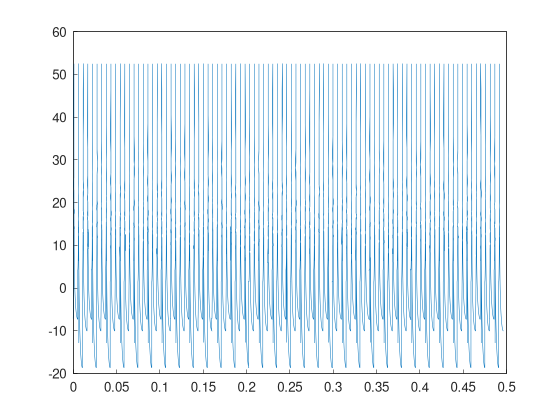
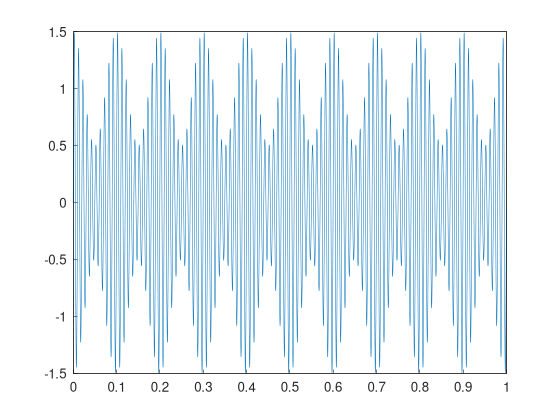
fix fft

diff --git a/Modules/FFT/src/FFT_cufft.cpp b/Modules/FFT/src/FFT_cufft.cpp
@@ -2,6 +2,7 @@
 
 #include <module.hpp>
 #include <utility>
+#include <iostream>
 
 #include <cufft.h>
 #include <cuda_runtime.h>
@@ -42,6 +43,13 @@ IModule* createModule() {
 FFT::FFT() : IModule({"FFT", "FFT-module.so", "FFT.json"}) {}
 
 bool FFT::init() {
+    m_buffer = GpuFloatSignal(m_overlapSize * 2);
+
+    const auto planStatus = cufftPlan1d(&m_prefixPlan, m_buffer.availableSize(), CUFFT_R2C, 1);
+    if (planStatus != CUFFT_SUCCESS) {
+        ERROR << "FFT::initPlan: cufftPlanMany failed: " << cufftResultToString(planStatus) << std::endl;
+        return false;
+    }
     return true;
 }
 
@@ -74,14 +82,6 @@ bool FFT::initPlan(){
         return false;
     }
 
-    /*
-    if ((inputSize % m_fftSize) != 0) {
-        ERROR << "FFT::initPlan: input size (" << inputSize
-              << ") is not multiple of fft size (" << m_fftSize << ")." << std::endl;
-        return false;
-    }
-    */
-
     m_plan = 0;
     int n[1] = {static_cast<int>(m_fftSize)};
     const int istride = 1;
@@ -111,6 +111,17 @@ bool FFT::initPlan(){
 }
 
 bool FFT::run() {
+    size_t prefixOffset = 0;
+    if(not m_isFirtFft){
+        prefixOffset = (m_fftSize / 2) + 1;
+        const auto prefixStatus = cufftExecR2C(m_prefixPlan, m_buffer.getDeviceData(), m_outData->getDeviceData());
+        if (prefixStatus != CUFFT_SUCCESS) {
+            ERROR << "FFT::run: prefix cufftExecR2C failed: " << cufftResultToString(prefixStatus) << std::endl;
+            return false;
+        }
+        INFO << "FFT::run: prefix cufftExecR2C completed." << std::endl;
+    }
+
     if(not prepareData()) {
         return false;
     }
@@ -119,11 +130,20 @@ bool FFT::run() {
         return false;
     }
 
-    const auto execStatus = cufftExecR2C(m_plan, m_inData->getDeviceData(), m_outData->getDeviceData());
+    const auto prefixErr = cudaMemcpy(m_buffer.getDeviceData(),
+        m_inData->getDeviceData() + (m_inData->size() - m_overlapSize),
+        m_overlapSize * sizeof(float), cudaMemcpyDeviceToDevice
+    );
+
+    if(prefixErr != cudaSuccess){
+        ERROR << "FFT::run: prefix cudaMemcpy failed: " << cudaGetErrorString(prefixErr) << std::endl;
+        return false;
+    }
+
+    const auto execStatus = cufftExecR2C(m_plan, m_inData->getDeviceData(), m_outData->getDeviceData() + prefixOffset);
     if (execStatus != CUFFT_SUCCESS) {
         ERROR << "FFT::run: cufftExecR2C failed: " << cufftResultToString(execStatus) << std::endl;
         cufftDestroy(m_plan);
-        m_outData = std::make_shared<GpuComplexFloatSignal>();
         return false;
     }
 
@@ -134,12 +154,18 @@ bool FFT::run() {
         return false;
     }
 
+    m_isFirtFft = false;
+
     return true;
 }
 
 void FFT::setParam(const std::string& paramName, const std::any& value) {
     if(paramName == "fft size"){
         m_fftSize = std::any_cast<int32_t>(value);
+    }
+
+    if(paramName == "overlap size"){
+        m_overlapSize = std::any_cast<int32_t>(value);
     }
 }
 
@@ -155,11 +181,6 @@ bool FFT::setData(std::shared_ptr<IData> data) {
         return false;
     }
 
-    if (m_fftSize == 0) {
-        ERROR << "FFT::setData: fft size is zero." << std::endl;
-        return false;
-    }
-
     const auto inputSize = gpuData->size();
     if (inputSize == 0) {
         ERROR << "FFT::setData: input signal has zero size." << std::endl;
@@ -172,21 +193,22 @@ bool FFT::setData(std::shared_ptr<IData> data) {
         return false;
     }
 
-    /*
-    if ((inputSize % m_fftSize) != 0) {
-        ERROR << "FFT::setData: input size (" << inputSize
-              << ") is not multiple of fft size (" << m_fftSize << ")." << std::endl;
-        return false;
-    }
-    */
 
     const auto batch = inputSize / m_fftSize;
     const auto outputPerBatch = (m_fftSize / 2) + 1;
-    const auto outputSize = batch * outputPerBatch;
+    const auto outputSize = outputPerBatch * (batch + int32_t(!m_isFirtFft));
     auto outData = std::make_shared<GpuComplexFloatSignal>(outputSize);
     if (!outData || !outData->isValid()) {
         ERROR << "FFT::setData: failed to allocate output GPU buffer, size = " << outputSize << std::endl;
         return false;
+    }
+
+    if(not m_isFirtFft){
+        const auto err = cudaMemcpy(m_buffer.getDeviceData() + m_overlapSize, gpuData->getDeviceData(), m_overlapSize * sizeof(float), cudaMemcpyDeviceToDevice);
+        if (err != cudaSuccess) {
+            ERROR << "FFT::setData: prefix cudaMemcpy failed: " << cudaGetErrorString(err) << std::endl;
+            return false;
+        }
     }
 
     m_inData = gpuData;

diff --git a/main.cpp b/main.cpp
@@ -37,38 +37,45 @@ int32_t main(int argc, char const *argv[])
         return -1;
     }
 
-    const int32_t fftSize = 2048;
+    const int32_t fftSize = 4096;
     const int32_t sampleFreq = 192'000;
     init_logging();
     ModuleFactory factory(".");
 
     Conveyor conveyor("Main conveyor");
     std::shared_ptr<IModule> srcModule = std::shared_ptr<IModule>(factory.createModule("FileSrc"));
-    srcModule->setParam("file name", std::string("/home/luchinin/my_source/Course_poject/Server/signal_examples/fm_signal.bin"));
+    srcModule->setParam("file name", std::string("/home/luchinin/my_source/Course_poject/Server/signal_examples/am_signal.bin"));
     srcModule->setParam("data type", std::string("float"));
+    srcModule->setParam("max size", size_t(1'000'000));
 
-
-    std::shared_ptr<IModule> module1 = std::shared_ptr<IModule>(factory.createModule("FFT"));
-    module1->setParam("fft size", fftSize);
-
-    std::shared_ptr<IModule> module2 = std::shared_ptr<IModule>(factory.createModule("CS2AS"));
-
-    std::shared_ptr<IModule> viewModule = std::shared_ptr<IModule>(factory.createModule("SignalPlot"));
-    viewModule->setParam("sample rate", sampleFreq);
-    viewModule->setParam("show", true);
-    viewModule->setParam("save path", std::string("/home/luchinin/my_source/Course_poject/Server/signal_examples/sin_signal.png"));
-
+    std::shared_ptr<IModule> firModule = std::shared_ptr<IModule>(factory.createModule("FIR-filter"));
+    firModule->setParam("sample rate", sampleFreq);
+    firModule->setParam("filter order", 129);
+    firModule->setParam("block size", 2048);
+    firModule->setParam("low cutoff", float(51'000.f));
+    firModule->setParam("high cutoff", float(54'000.f));
     
+    std::shared_ptr<IModule> mobule1 = std::shared_ptr<IModule>(factory.createModule("SumReduce"));
+
+    std::shared_ptr<IModule> fftMobule = std::shared_ptr<IModule>(factory.createModule("FFT"));
+    fftMobule->setParam("fft size", fftSize);
+    fftMobule->setParam("overlap size", fftSize / 2);
+
+    std::shared_ptr<IModule> magnitureModyule = std::shared_ptr<IModule>(factory.createModule("CS2AS"));
+
     std::shared_ptr<IModule> spectrogramm = std::shared_ptr<IModule>(factory.createModule("SpectrogramPlot"));
     spectrogramm->setParam("show", true);
     spectrogramm->setParam("sample rate", sampleFreq);
     spectrogramm->setParam("fft size", fftSize);
-    spectrogramm->setParam("save path", std::string("/home/luchinin/my_source/Course_poject/Server/signal_examples/spectrogramm.png"));
+    spectrogramm->setParam("save path", std::string("/home/luchinin/my_source/Course_poject/Server/signal_examples/spectrogramm"));
+
 
     conveyor.addModule(srcModule);
-    conveyor.addModule(module1);
-    conveyor.addModule(module2);
+    //conveyor.addModule(firModule);
+    conveyor.addModule(fftMobule);
+    conveyor.addModule(magnitureModyule);
     conveyor.addModule(spectrogramm);
+
 
     if(not conveyor.init()){
         std::cerr << "Error init" << std::endl;

diff --git a/Core/src/Conveyor.cpp b/Core/src/Conveyor.cpp
@@ -59,15 +59,35 @@ bool Conveyor::run() {
     std::cout << "Conveyor '" << m_conveyorName << "' running payload." << std::endl;
     if(m_modules.empty())
         return false;
+
+    while(iterate());
     
+
+    return true; // В реальном приложении может возвращать результат обработки
+}
+
+bool Conveyor::iterate() {
     auto module = m_modules.front();
     if(not module->run()){
         std::cerr << "Fail to run: " << module->getMetaData().moduleName << std::endl;
         return false;
     }
     auto data = module->getData();
+
+    if(data->size() == 0){
+        std::cout << "! finished" << std::endl;
+        return false;
+    }
+    std::cout << "!" << module->getMetaData().moduleName << " Success run" << std::endl;
+
     for(size_t i = 1; i < m_modules.size(); ++i){
         module = m_modules[i];
+
+        if(not data->isValid()){
+            std::cerr << "Invalid data from: " << module->getMetaData().moduleName << std::endl;
+            return false;
+        }
+
         if (module) {
             if(not module->setData(data)){
                 std::cerr << "Fail to init data: " << module->getMetaData().moduleName << std::endl;
@@ -79,15 +99,9 @@ bool Conveyor::run() {
                 return false;
             }
 
+            std::cout << "!" << module->getMetaData().moduleName << " Success run" << std::endl;
             data = module->getData();
-            if(not data->isValid()){
-                std::cerr << "Invalid data from: " << module->getMetaData().moduleName << std::endl;
-                return false;
-            }
         }
     }
-
-    auto signal = CpuFloatSignal::fromGpu(data);
-    std::cout << signal->getData()[0] << std::endl;
-    return true; // В реальном приложении может возвращать результат обработки
+    return true;
 }

diff --git a/Modules/FileSrc/src/FileSrc.cpp b/Modules/FileSrc/src/FileSrc.cpp
@@ -9,10 +9,6 @@
 #include <GpuFloatSignal.hpp>
 #include <module.hpp>
 
-namespace {
-    constexpr size_t MAX_SIZE = 1'000'000'000;
-}
-
 IModule* createModule() {
     return new FileSrc();
 }
@@ -28,7 +24,7 @@ bool FileSrc::init() {
     }
 
     const auto fileSize = std::filesystem::file_size(m_fileName);
-    m_stepSize = (fileSize > MAX_SIZE) ? MAX_SIZE : fileSize;
+    m_stepSize = (fileSize > m_maxSize) ? m_maxSize : fileSize;
 
 
     m_file = std::ifstream(m_fileName, std::ios::in | std::ios::binary);
@@ -54,6 +50,11 @@ bool FileSrc::run() {
 void FileSrc::setParam(const std::string& paramName, const std::any& value) {
     if(paramName == "file name") {
         m_fileName = std::any_cast<std::string>(value);
+        return;
+    }
+
+    if(paramName == "max size") {
+        m_maxSize = std::any_cast<size_t>(value);
         return;
     }
 

diff --git a/Module/include/IModule.hpp b/Module/include/IModule.hpp
@@ -18,14 +18,14 @@ class IModule {
 public:
 
     IModule() = delete;
-    IModule(ModuleMetaData mData) :    m_metaData(mData),
-    logger(boost::log::keywords::channel = mData.moduleName){};
+    IModule(ModuleMetaData mData) :
+        logger(boost::log::keywords::channel = mData.moduleName),
+        m_metaData(mData){};
 
     virtual ~IModule() = default;
     
     /*!
     * @brief init инициализирует модуль из json 
-    * @param json
     * @return true если модуль успешно инициализирован
     * @return false если есть ошибки
     */

diff --git a/Modules/FFT/include/FFT_cufft.hpp b/Modules/FFT/include/FFT_cufft.hpp
@@ -31,7 +31,12 @@ private:
 
     cufftHandle m_plan;
 
+    cufftHandle m_prefixPlan;
+    GpuFloatSignal m_buffer;
+    bool m_isFirtFft = true;
+
     size_t m_fftSize = 1024;
+    int32_t m_overlapSize = m_fftSize / 2;
 };
 
 #endif

diff --git a/DataContainers/include/IData.hpp b/DataContainers/include/IData.hpp
@@ -10,8 +10,8 @@ class IData {
 public:
     IData() = delete;
     IData(const std::string & dataName) :
-        m_dataName(dataName),
-        logger(boost::log::keywords::channel = dataName){};
+        logger(boost::log::keywords::channel = dataName),
+        m_dataName(dataName) {};
 
     virtual ~IData() = default;
     inline const std::string& getDataName() const {return m_dataName;};

diff --git a/Modules/SpectrogramPlot/src/SpectrogramPlot.cpp b/Modules/SpectrogramPlot/src/SpectrogramPlot.cpp
@@ -24,6 +24,7 @@ bool SpectrogramPlot::init() {
     return true;
 }
 
+int32_t i = 0;
 bool SpectrogramPlot::run() {
     if (!m_data || !m_data->isValid()) {
         ERROR << "SpectrogramPlot::run: input data is null or invalid." << std::endl;
@@ -92,7 +93,7 @@ bool SpectrogramPlot::run() {
         }
     }
 
-    const std::string outPath = m_savePath.empty() ? "spectrogram.png" : m_savePath;
+    const std::string outPath = m_savePath.empty() ? "spectrogram" + std::to_string(i) + ".png" : m_savePath + std::to_string(i) + ".png";
     if (!cv::imwrite(outPath, image)) {
         ERROR << "SpectrogramPlot::run: failed to save image to " << outPath << std::endl;
         return false;
@@ -103,6 +104,7 @@ bool SpectrogramPlot::run() {
         INFO << "SpectrogramPlot::run: show=true is set, but interactive preview is not implemented." << std::endl;
     }
 
+    ++i;
     return true;
 }
 

diff --git a/Core/include/Conveyor.hpp b/Core/include/Conveyor.hpp
@@ -21,6 +21,9 @@ public:
     std::string getName() const;
     bool getIsInitialized() const;
 
+    bool iterate();
+
+
 private:
     std::string m_conveyorName;
     bool m_isInitialized;

diff --git a/Modules/FileSrc/include/FileSrc.hpp b/Modules/FileSrc/include/FileSrc.hpp
@@ -33,6 +33,8 @@ public:
 
 protected:
     DataType m_type;
+
+    size_t m_maxSize;
     std::string m_fileName;
     size_t m_stepSize = 0;
     std::ifstream m_file;